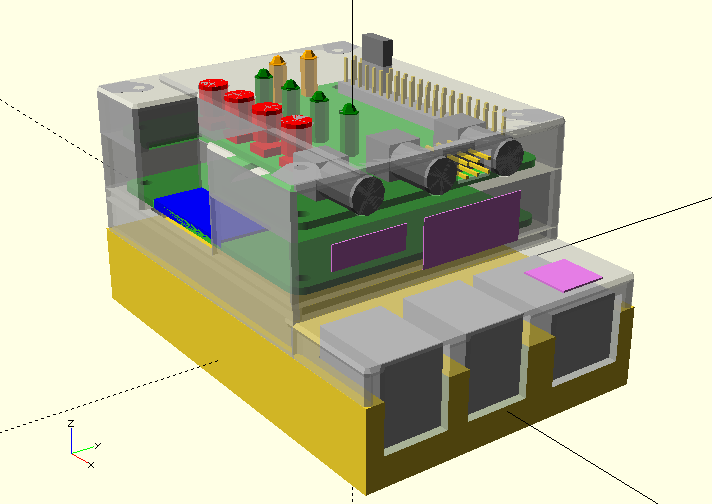
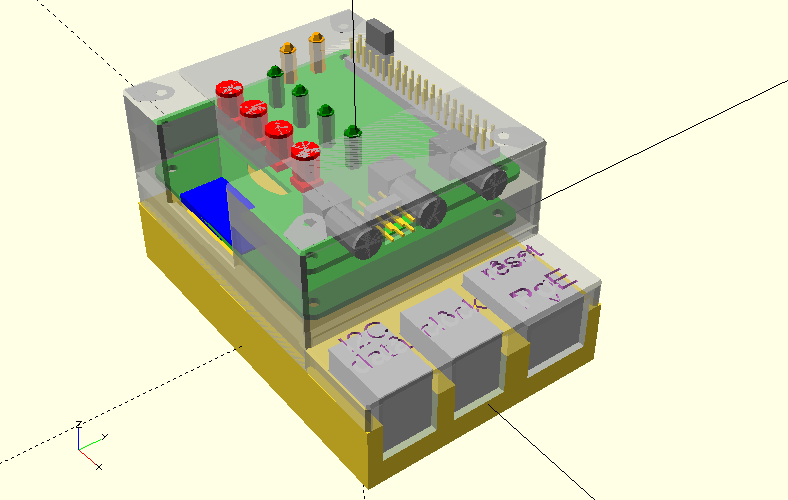
box with text as diff. (v0.1.8)

diff --git a/ReadMe.md b/ReadMe.md
@@ -44,9 +44,8 @@ make only SLICE=[lower,middle,upper,cover] STL file
 
 # DONE
 
-- v add BOX variable for projection, full, cover, ...
-- v on 2015.03-2, cover box with PCB diff.
-- v STL: "make cover" do "box_cover.stl" file
+- v STL: "make lower" do "box_lower.stl" file
+- v text with OpenSCAD version 2015.03-2
 
 ## TODO
 
@@ -58,7 +57,6 @@ make only SLICE=[lower,middle,upper,cover] STL file
 
 ### medium priority
 
-- . text with OpenSCAD version higher
 - _ check sizes: USB, Eth, hole for oLED (PCB <-> cover box)
 - _ screwing procedure
 
